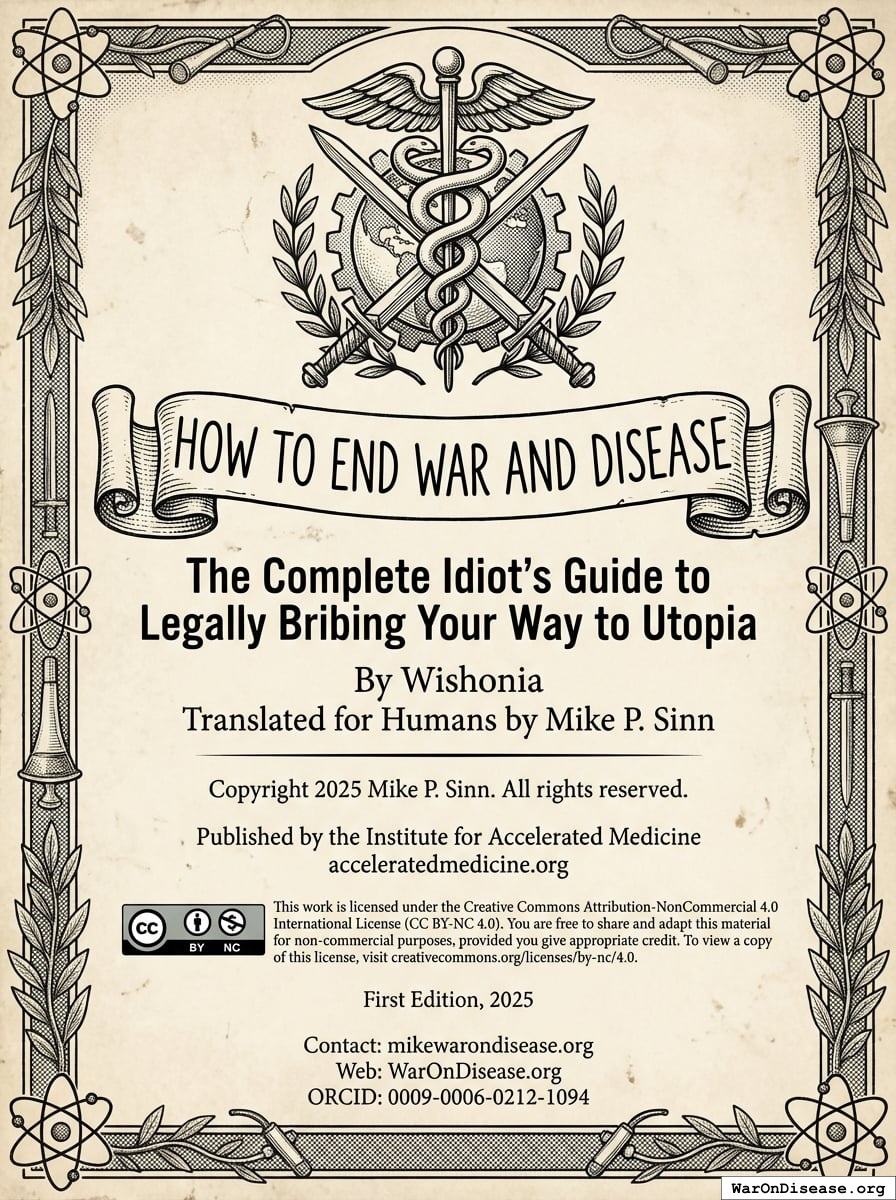
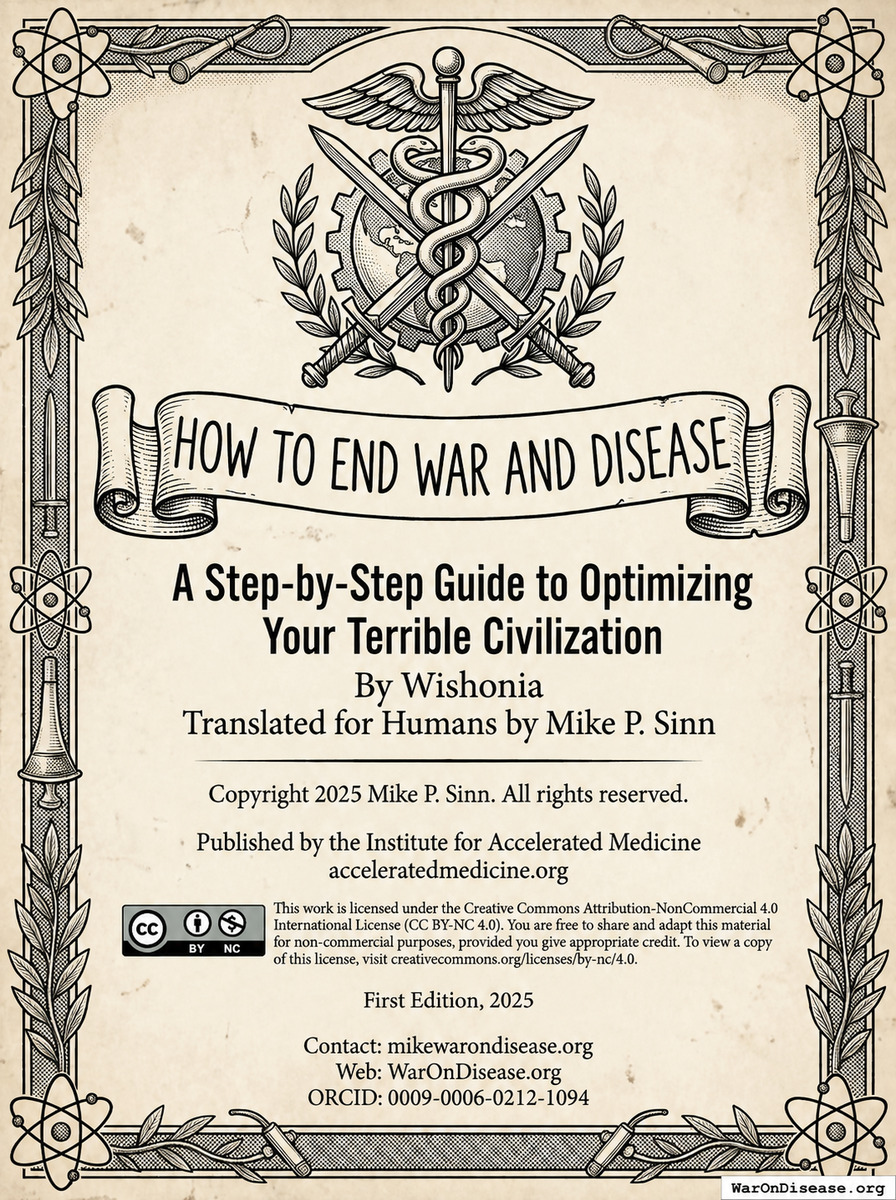
Update remaining book subtitle assets

Changed region(s): [[0.0, 0.0, 1.0, 1.0], [0.375, 0.37, 0.5312, 0.4317], [0.25, 0.37, 0.2812, 0.4008]]

diff --git a/scripts/generate_music_video.py b/scripts/generate_music_video.py
@@ -286,7 +286,7 @@ SCENES = [
     },
     {
         "index": 13,
-        "lyrics": "to Optimizing Your Terrible Civilization...",
+        "lyrics": "to Optimizing Your",
         "start_s": 79.0,
         "end_s": 86.5,
         "keyframe_prompt": (
@@ -302,7 +302,7 @@ SCENES = [
     },
     {
         "index": 14,
-        "lyrics": "...to Utopia!",
+        "lyrics": "Terrible Civilization!",
         "start_s": 86.5,
         "end_s": 93.0,
         "keyframe_prompt": (
